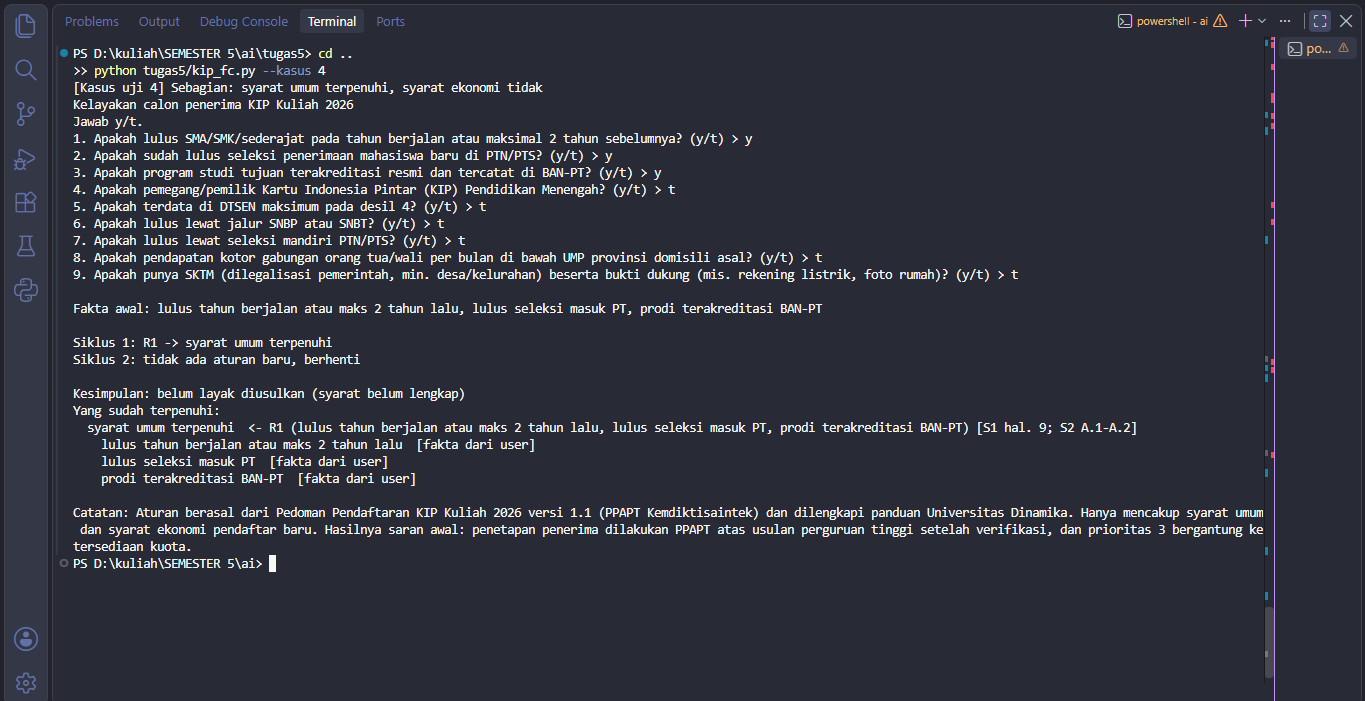
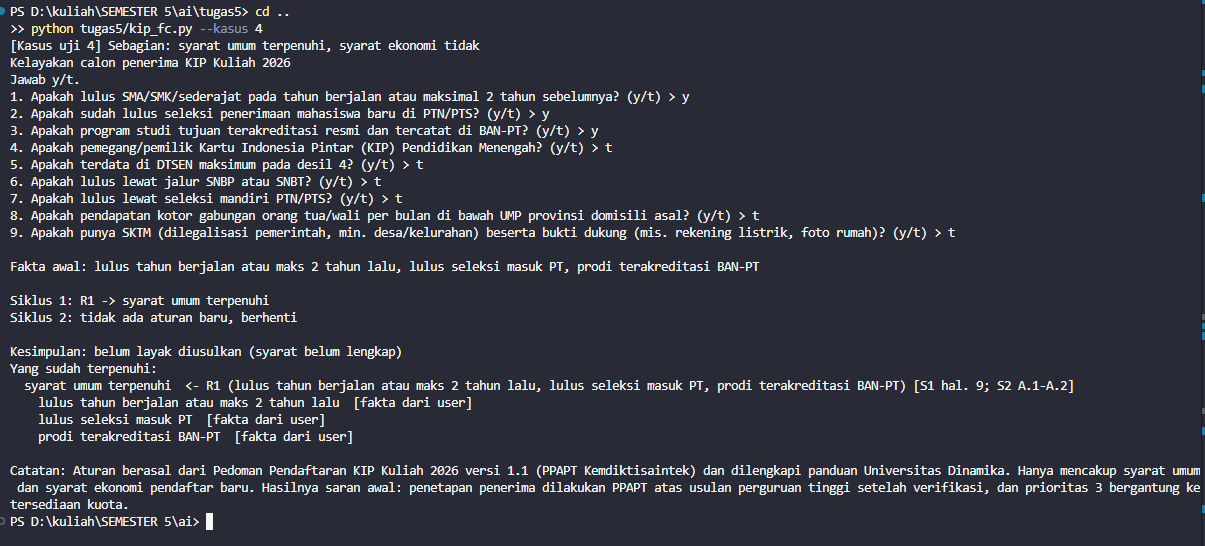
push

diff --git a/README.md b/README.md
@@ -4,7 +4,7 @@
 
 - Nama: **AHMAD DANI**
 - NIM: **F1D02410140**
-- Mata kuliah: Kecerdasan Buatan (MKL1303131), Teknik Informatika UNRAM
+- Mata kuliah: Kecerdasan Buatan, Teknik Informatika UNRAM
 
 ## 2. Topik dan cara menjalankan
 
